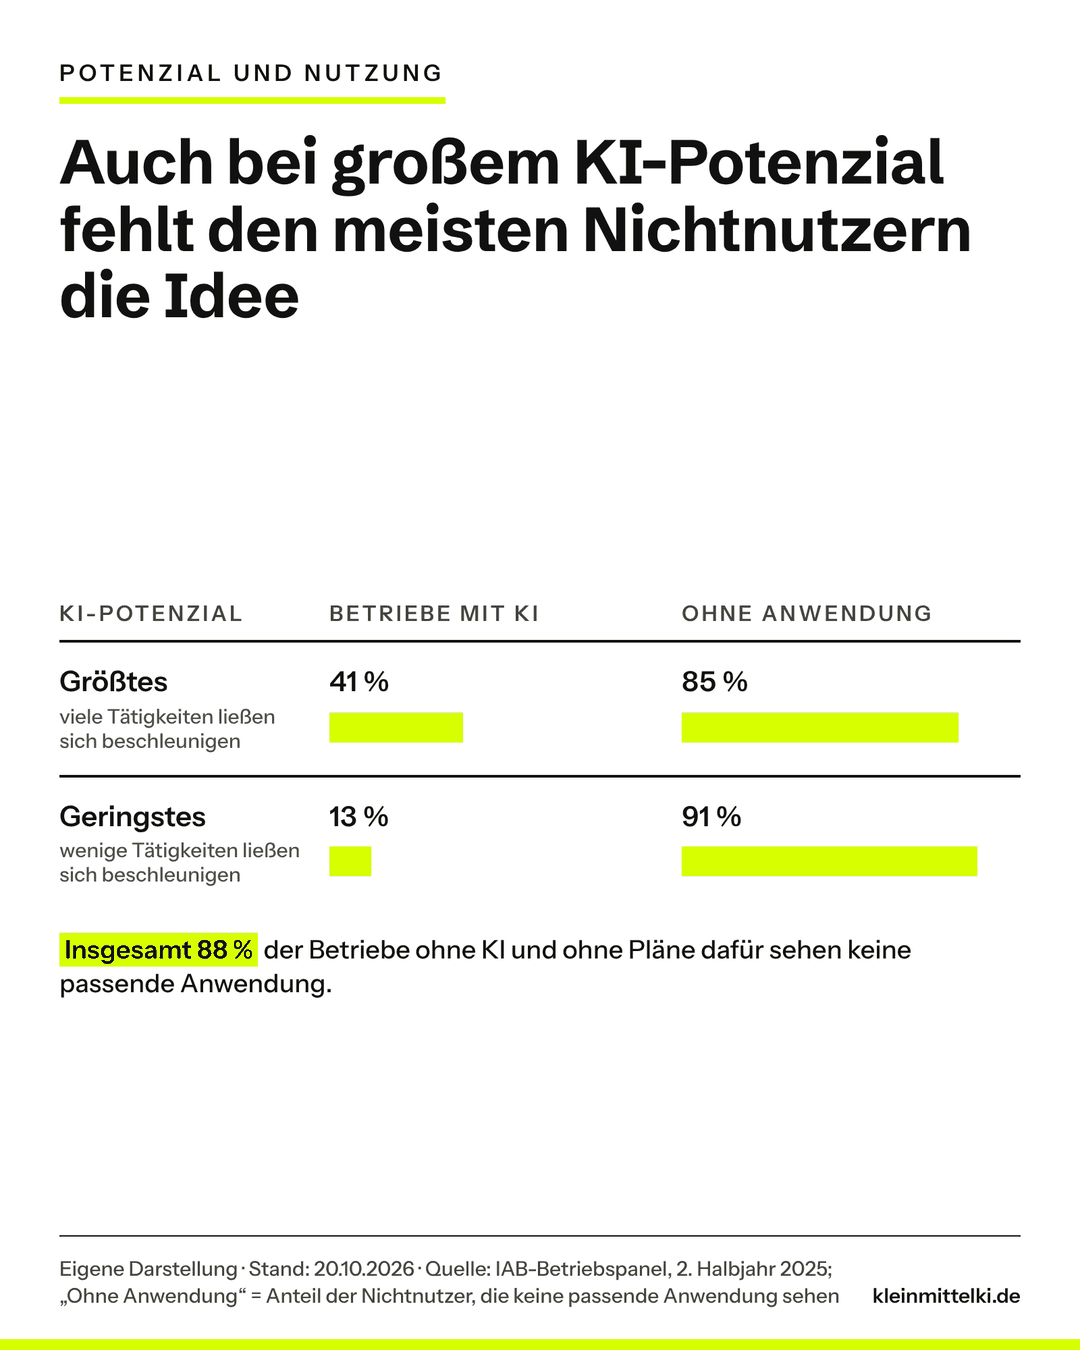
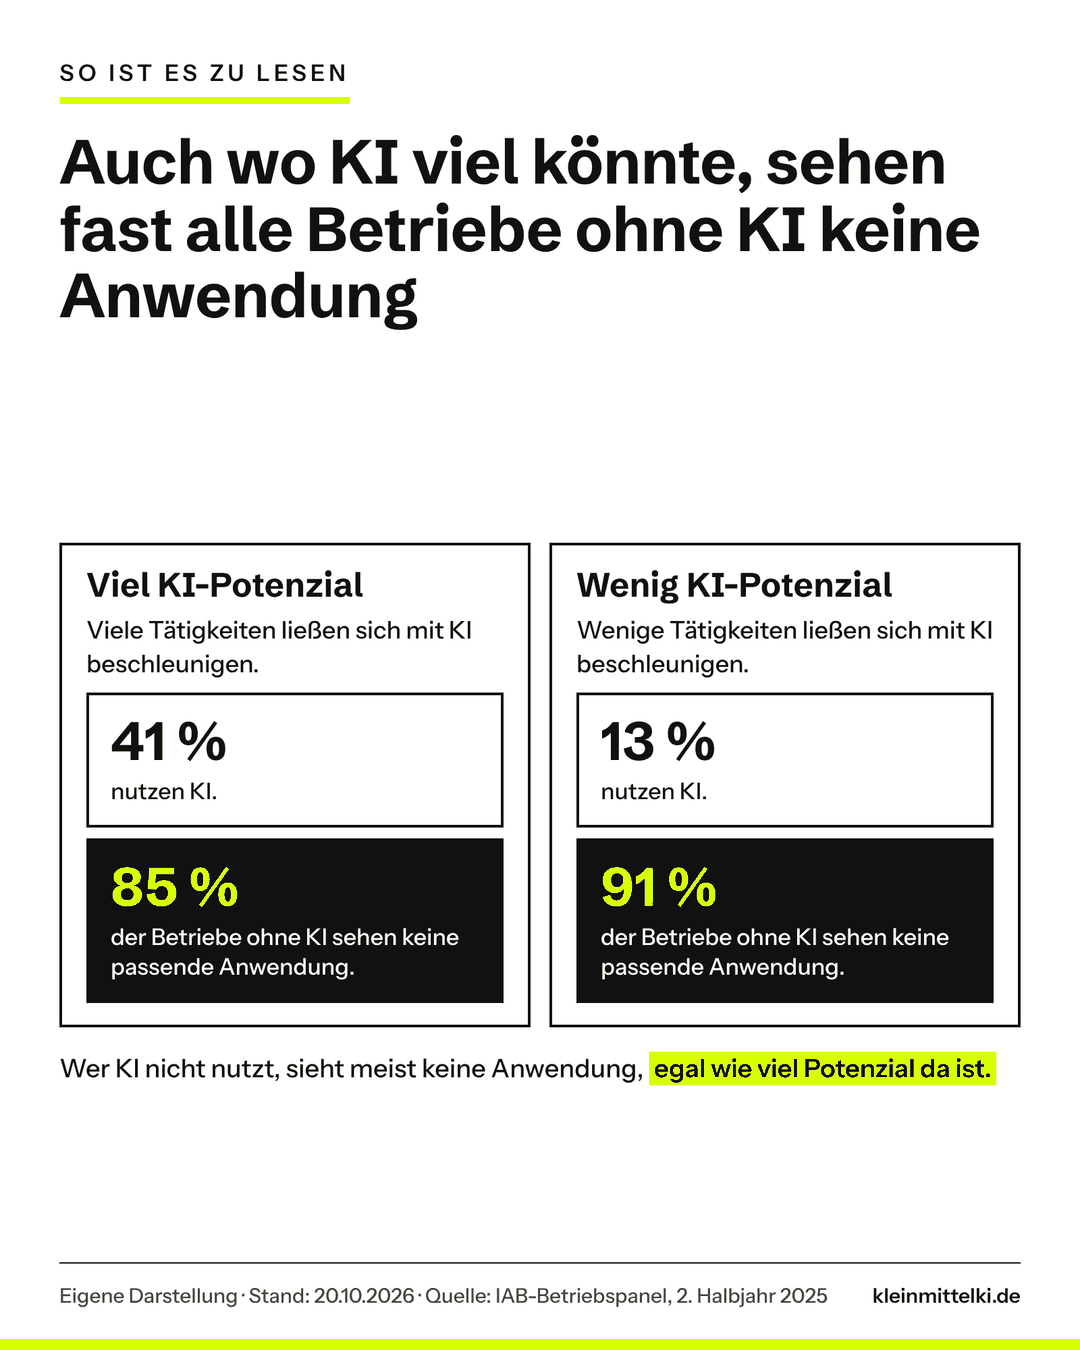
Chat 2026-11-09: neue Grafik für iab-betriebe-sehen-keine-ki-anwendung
Claude-Session: https://claude.ai/code/session_0145MfsdWdkAxq1HmRKV4KkA

Changed region(s): [[0.0306, 0.4044, 0.9472, 0.8089], [0.0611, 0.0311, 0.9167, 0.2489], [0.0306, 0.9333, 0.7944, 0.9644]]

diff --git a/entwuerfe/iab-betriebe-sehen-keine-ki-anwendung/g1.html b/entwuerfe/iab-betriebe-sehen-keine-ki-anwendung/g1.html
@@ -1,14 +1,18 @@
 <div class="g">
-  <div class="g-kicker">Potenzial und Nutzung</div>
-  <h1 class="g-titel">Auch bei großem KI-Potenzial fehlt den meisten Nichtnutzern die Idee</h1>
-  <table class="g-tabelle">
-    <colgroup><col style="width:190px"><col><col></colgroup>
-    <thead><tr><th>KI-Potenzial</th><th>Betriebe mit KI</th><th>Ohne Anwendung</th></tr></thead>
-    <tbody>
-      <tr><td>Größtes<small>viele Tätigkeiten ließen sich beschleunigen</small></td><td class="g-lv">41 %<div class="g-box--lime" style="width:41%;height:22px;margin-top:10px"></div></td><td class="g-lv">85 %<div class="g-box--lime" style="width:85%;height:22px;margin-top:10px"></div></td></tr>
-      <tr><td>Geringstes<small>wenige Tätigkeiten ließen sich beschleunigen</small></td><td class="g-lv">13 %<div class="g-box--lime" style="width:13%;height:22px;margin-top:10px"></div></td><td class="g-lv">91 %<div class="g-box--lime" style="width:91%;height:22px;margin-top:10px"></div></td></tr>
-    </tbody>
-  </table>
-  <p class="g-notiz"><mark>Insgesamt 88 %</mark> der Betriebe ohne KI und ohne Pläne dafür sehen keine passende Anwendung.</p>
-  <div class="g-fuss"><span>Eigene Darstellung · Stand: 20.10.2026 · Quelle: IAB-Betriebspanel, 2. Halbjahr 2025; „Ohne Anwendung“ = Anteil der Nichtnutzer, die keine passende Anwendung sehen</span><b>kleinmittelki.de</b></div>
+  <div class="g-kicker">So ist es zu lesen</div>
+  <h1 class="g-titel">Auch wo KI viel könnte, sehen fast alle Betriebe ohne KI keine Anwendung</h1>
+  <div class="g-raster">
+    <div class="g-karte"><div class="g-karte-kopf"><h3>Viel KI-Potenzial</h3></div>
+      <p>Viele Tätigkeiten ließen sich mit KI beschleunigen.</p>
+      <div class="g-zahl"><b>41 %</b><span>nutzen KI.</span></div>
+      <div class="g-zahl g-zahl--dunkel"><b>85 %</b><span>der Betriebe ohne KI sehen keine passende Anwendung.</span></div>
+    </div>
+    <div class="g-karte"><div class="g-karte-kopf"><h3>Wenig KI-Potenzial</h3></div>
+      <p>Wenige Tätigkeiten ließen sich mit KI beschleunigen.</p>
+      <div class="g-zahl"><b>13 %</b><span>nutzen KI.</span></div>
+      <div class="g-zahl g-zahl--dunkel"><b>91 %</b><span>der Betriebe ohne KI sehen keine passende Anwendung.</span></div>
+    </div>
+  </div>
+  <p class="g-notiz">Wer KI nicht nutzt, sieht meist keine Anwendung, <mark>egal wie viel Potenzial da ist.</mark></p>
+  <div class="g-fuss"><span>Eigene Darstellung · Stand: 20.10.2026 · Quelle: IAB-Betriebspanel, 2. Halbjahr 2025</span><b>kleinmittelki.de</b></div>
 </div>

diff --git a/entwuerfe/iab-betriebe-sehen-keine-ki-anwendung/beitrag.md b/entwuerfe/iab-betriebe-sehen-keine-ki-anwendung/beitrag.md
@@ -15,7 +15,7 @@ INTERN – vor Veröffentlichung entfernen: Thema ist Tills Idee (Chat 23.10.202
 
 Das Institut für Arbeitsmarkt- und Berufsforschung (IAB) hat am 20. Oktober 2026 ausgewertet, warum Betriebe auf KI verzichten. Grundlage ist das IAB-Betriebspanel aus dem zweiten Halbjahr 2025. Damals nutzten zwei Drittel der Betriebe keine KI und planten es auch nicht. 88 Prozent von ihnen sahen keine passenden Anwendungsmöglichkeiten. Fehlendes Wissen, fehlende Fachkräfte, inkompatible IT oder unzureichende Daten nannte jeweils nur rund ein Drittel. Auffällig: Selbst wo KI viele Tätigkeiten im Betrieb beschleunigen könnte, sehen 85 Prozent der Nichtnutzer keinen Einsatzzweck.
 
-![Tabelle: Betriebe nach KI-Potenzial ihrer Tätigkeiten. Größtes Potenzial: 41 Prozent nutzen KI, 85 Prozent der Nichtnutzer sehen keine passende Anwendung. Geringstes Potenzial: 13 Prozent nutzen KI, 91 Prozent der Nichtnutzer sehen keine passende Anwendung.](kmk-iab-ki-potenzial-g1.png "IAB-Betriebspanel, zweites Halbjahr 2025, veröffentlicht am 20.10.2026. Potenzial meint, wie stark KI die im Betrieb ausgeübten Tätigkeiten beschleunigen könnte.")
+![Schaubild mit zwei Karten: Betriebe mit viel KI-Potenzial: 41 Prozent nutzen KI, 85 Prozent der Betriebe ohne KI sehen keine passende Anwendung. Betriebe mit wenig KI-Potenzial: 13 Prozent nutzen KI, 91 Prozent der Betriebe ohne KI sehen keine passende Anwendung.](kmk-iab-ki-potenzial-g1.png "IAB-Betriebspanel, zweites Halbjahr 2025, veröffentlicht am 20.10.2026. Potenzial meint, wie stark KI die im Betrieb ausgeübten Tätigkeiten beschleunigen könnte.")
 
 Was die Grafik zeigt: Wo KI viel könnte, nutzen sie deutlich mehr Betriebe. Unter den übrigen sieht aber fast jeder keine Anwendung, egal wie groß das Potenzial ist.
 

diff --git a/redaktion/themenboard.md b/redaktion/themenboard.md
@@ -35,7 +35,7 @@ Daneben: `newsletter-vorschlag` (Sonntag per Mail an Till), `verworfen` (mit Gru
 - Braucht von Till: Einschätzung in 2–3 Sätzen oder Freigabe des Vorschlags
 - Vorschlag „Eine Zahl, genau gelesen“: zahl „88 %“ · text „der Betriebe ohne KI sehen dafür keine passende Anwendung.“ · genau „Gemeint sind nur Betriebe, die KI weder nutzen noch planen – im zweiten Halbjahr 2025 zwei Drittel aller Betriebe. Selbstauskunft. Quelle: IAB, Oktober 2026.“ · link: Beitrag nach Veröffentlichung. Ändern nur nach Freigabe (Code-Injection, nicht per API).
 - Reihenfolge: vor nicht-jedes-problem-braucht-ki veröffentlichen
-- Verlauf: (ältere Einträge: redaktion/verlauf/iab-betriebe-sehen-keine-ki-anwendung.md) 2026-10-25 Ghost-Lauf (7:47): Entwurf in Ghost angelegt, Vorschau: https://www.kleinmittelki.de/p/49d77d59-3984-4501-99d4-d71e1b0198c1/ · 2026-11-02 Lauf 12:47: als B erinnert (Mail 1a19be3873ddb3ea, Termin Do 5.11. 7:00) · 2026-11-05 Lauf 7:47: Do 5.11. ohne Freigabe verstrichen; im Briefing als B erinnert (Mail 1a1aa7c89c1cc391, „B ja“ = Do 12.11. 7:00)
+- Verlauf: (ältere Einträge: redaktion/verlauf/iab-betriebe-sehen-keine-ki-anwendung.md) 2026-11-02 Lauf 12:47: als B erinnert (Mail 1a19be3873ddb3ea, Termin Do 5.11. 7:00) · 2026-11-05 Lauf 7:47: Do 5.11. ohne Freigabe verstrichen; im Briefing als B erinnert (Mail 1a1aa7c89c1cc391, „B ja“ = Do 12.11. 7:00) · 2026-11-09 Chat: Till will B diese Woche (Do 12.11.), versteht Grafik nicht → g1 neu als zwei Karten (viel/wenig Potenzial: nutzen KI / Betriebe ohne KI ohne Anwendung), Ghost-Entwurf aktualisiert; „B ja“ offen
 
 ### nicht-jedes-problem-braucht-ki
 - Status: veroeffentlicht

diff --git a/redaktion/entscheidungen.md b/redaktion/entscheidungen.md
@@ -51,3 +51,4 @@ Nur der Chefredakteur schreibt hier, und nur, was Till tatsächlich gesagt hat. 
 - 2026-11-09 · Newsletter: höchstens ein „Selbst ausprobiert“ pro Woche/Ausgabe · REGEL · „Ich möchte pro Woche immer nur ein selbst ausprobiert posten.“ (Chat) → in kmk-newsletter eingetragen
 - 2026-11-09 · newsletter-2026-11-10: nur Präsentations-Test, Recherche-Assistent raus (Fassung 2) · ÄNDERUNG · „diese Woche das Thema mit den Präsentation und nächste Woche dann mit dem Recherche Assistent“ (Chat). Noch keine Freigabe („N ja“ fehlt).
 - 2026-11-09 · ki-recherche-assistent-selbstversuch: nächste Woche (Di 17.11. 7:00 + Newsletter #7) statt Di 10.11. · TERMINWUNSCH, keine Freigabe · gleicher Chat-Satz. Review (Prozess geändert) weiter offen.
+- 2026-11-09 · iab-betriebe-sehen-keine-ki-anwendung: diese Woche als „gelesen und eingeordnet“ nehmen, Grafik unverständlich · ÄNDERUNG, noch keine Freigabe · „Fertig B nehmen wir aber ich versteh die Grafik nicht“ (Chat). Grafik g1 neu: zwei Karten statt Tabelle mit gemischten Bezugsgrößen.

diff --git a/redaktion/berichte/2026-11-09.md b/redaktion/berichte/2026-11-09.md
@@ -8,3 +8,5 @@ Lauf 7:47 · Status: Alles läuft. Nur Pflege (Index).
 
 Till (Chat): nur ein „Selbst ausprobiert“ pro Woche. Newsletter #6 als Fassung 2 ohne Recherche-Assistent (Prüfer bestanden), Ghost-Entwurf aktualisiert. Recherche-Assistent als Kandidat Di 17.11. Regel in kmk-newsletter. Testmail erneut fehlgeschlagen:
 `FEHLER: Ghost antwortet 200 auf POST email_previews/posts/6af01d6a2758a80001ce74b2/ ohne JSON (Content-Type text/html; charset=utf-8): <!DOCTYPE html> …`
+
+Chat: B (iab) Grafik g1 neu (zwei Karten), Ghost-Entwurf aktualisiert. grafik.py lief nur mit Playwright per pip und executable_path /opt/pw-browsers/chromium (Umgebung).

diff --git a/redaktion/verlauf/iab-betriebe-sehen-keine-ki-anwendung.md b/redaktion/verlauf/iab-betriebe-sehen-keine-ki-anwendung.md
@@ -4,3 +4,4 @@
 
 - 2026-10-23 Chat: Till „Ja“ → freigegeben · Autor/Grafik/Prüfung im Chat-Lauf, Einzelwerte aus Zweitverwertung bewusst weggelassen → geprueft (Sofortstart Ghost-Lauf blockiert, nächster regulärer Lauf So 7:47)
 - 2026-10-24 Chat: Till will neuen Titel, wählt „Fast 90 Prozent … an der falschen Stelle.“ → Titel, Teaser (wiederholte sonst die Überschrift) und Vorschaubild neu
+- 2026-10-25 Ghost-Lauf (7:47): Entwurf in Ghost angelegt, Vorschau: https://www.kleinmittelki.de/p/49d77d59-3984-4501-99d4-d71e1b0198c1/
